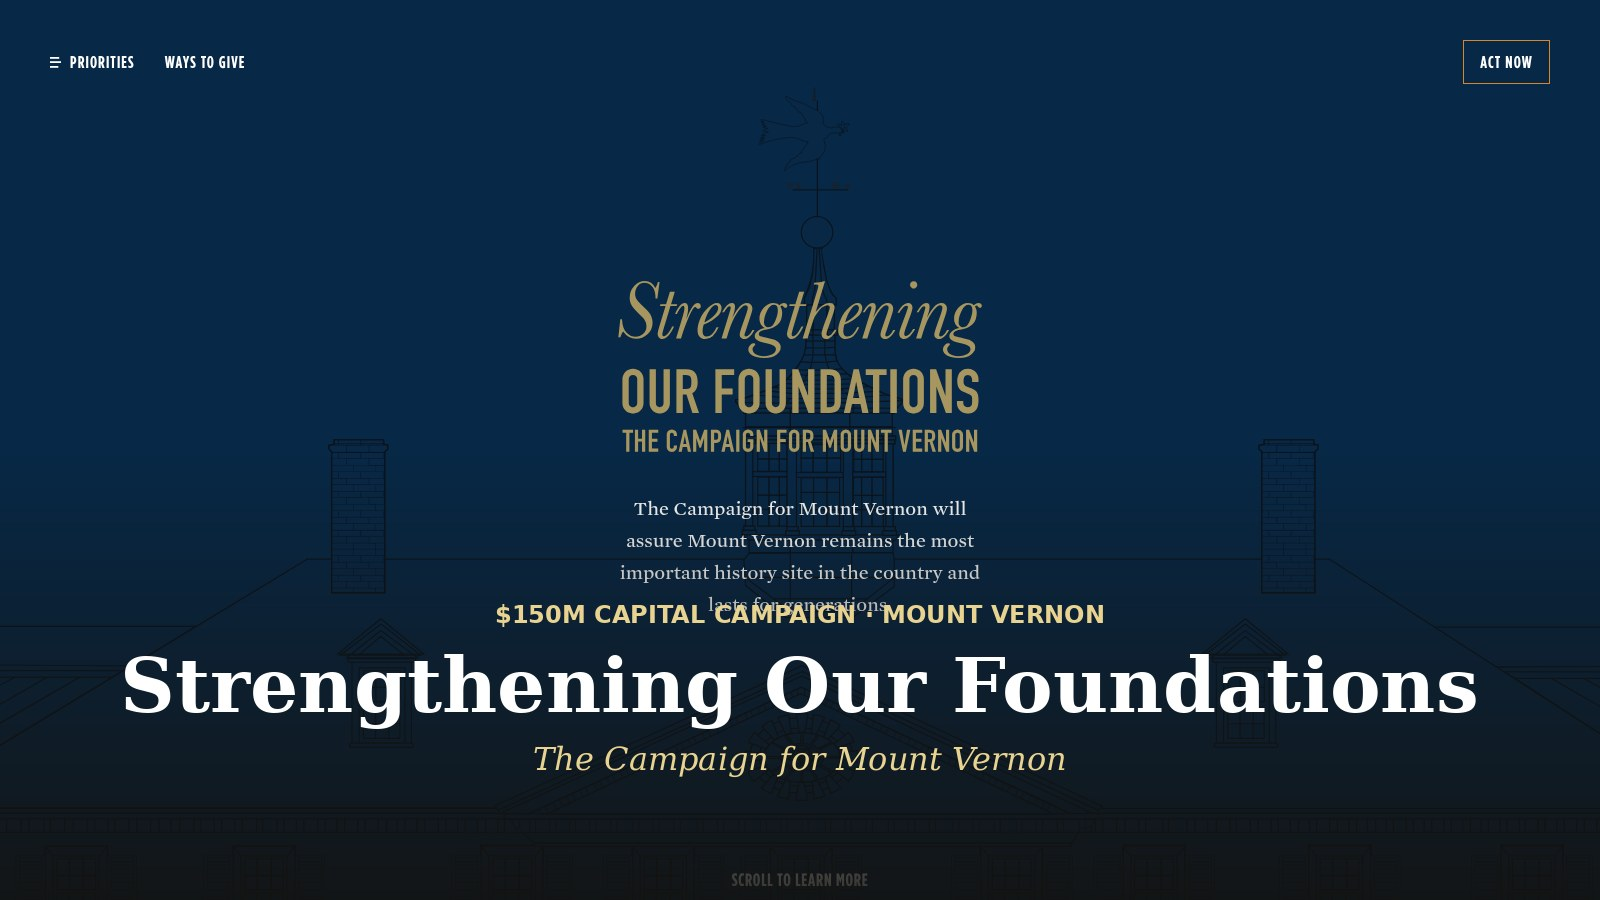
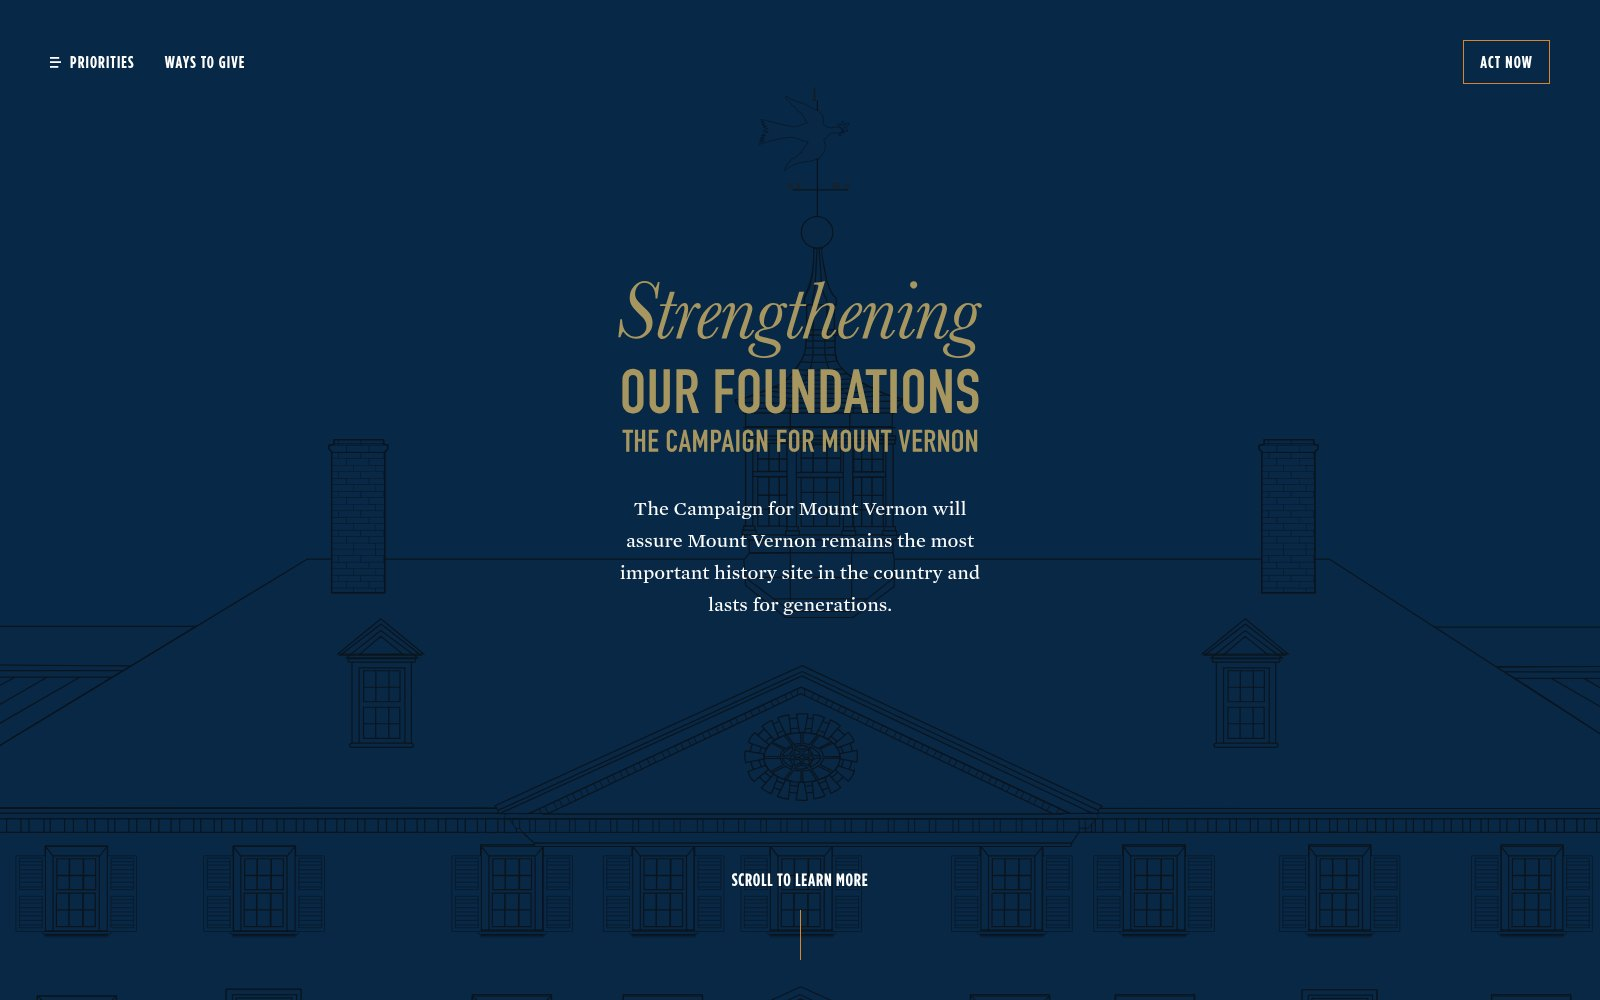
Campaign for Mount Vernon: use clean website screenshot as hero
Drop the composited hero (which duplicated headline text already
present on the campaign site itself) in favor of the raw
campaignformountvernon.org screenshot. Cleaner, no redundant text.

- hero.{jpg,webp} now contains the website screenshot (1600x1000)
- Removed the now-duplicate website-screenshot figure from the
  'The campaign website' section since the hero already shows it
- Replaced with a clear 'Visit campaignformountvernon.org' button
- site-fullsize.{jpg,webp} deleted (no longer referenced)

Changed region(s): [[0.0, 0.28, 1.0, 1.0], [0.0312, 0.0311, 0.1562, 0.0933], [0.9062, 0.0311, 0.9688, 0.0933]]

diff --git a/projects/campaign-mount-vernon/index.html b/projects/campaign-mount-vernon/index.html
@@ -64,7 +64,7 @@
     <div class="case-hero-image">
       <picture>
         <source type="image/webp" srcset="/img/projects/campaign-mount-vernon/hero.webp">
-        <img src="/img/projects/campaign-mount-vernon/hero.jpg" alt="Strengthening Our Foundations — The Campaign for Mount Vernon, a $150M capital campaign for America's 250th anniversary" width="1600" height="900">
+        <img src="/img/projects/campaign-mount-vernon/hero.jpg" alt="campaignformountvernon.org — Strengthening Our Foundations: The Campaign for Mount Vernon" width="1600" height="1000">
       </picture>
     </div>
   </div>
@@ -157,14 +157,11 @@
   </div>
 
   <h2>The campaign website</h2>
-  <p>We built and operate <a href="https://www.campaignformountvernon.org/" target="_blank" rel="noopener">campaignformountvernon.org</a> as the public destination tied to every campaign touch &mdash; mailer, email, event, press placement. The site keeps the architecture simple on purpose: the three priorities, the films, ways to give, and a clear &ldquo;Act Now&rdquo; call to action. It&rsquo;s the URL that every other piece of the campaign points to.</p>
+  <p>We built and operate <a href="https://www.campaignformountvernon.org/" target="_blank" rel="noopener">campaignformountvernon.org</a> as the public destination tied to every campaign touch &mdash; mailer, email, event, press placement. The site keeps the architecture simple on purpose: the three priorities, the films, ways to give, and a clear &ldquo;Act Now&rdquo; call to action. It&rsquo;s the URL that every other piece of the campaign points to &mdash; the same site shown at the top of this page.</p>
 
-  <div class="gallery cols-1">
-    <figure>
-      <picture><source type="image/webp" srcset="/img/projects/campaign-mount-vernon/site-fullsize.webp"><img src="/img/projects/campaign-mount-vernon/site-fullsize.jpg" alt="campaignformountvernon.org homepage — Strengthening Our Foundations, with the campaign film, the three priority pillars, and ways to give"></picture>
-      <figcaption class="gallery-caption">campaignformountvernon.org. Three priorities, four films, one call to action. <a href="https://www.campaignformountvernon.org/" target="_blank" rel="noopener">Live site &rarr;</a></figcaption>
-    </figure>
-  </div>
+  <p style="margin-top:1rem">
+    <a class="btn btn-primary" href="https://www.campaignformountvernon.org/" target="_blank" rel="noopener">Visit campaignformountvernon.org &rarr;</a>
+  </p>
 
   <h2>What we did</h2>
 

diff --git a/tools/pages/proj_campaign_mount_vernon.py b/tools/pages/proj_campaign_mount_vernon.py
@@ -18,7 +18,7 @@ BODY = '''
     <div class="case-hero-image">
       <picture>
         <source type="image/webp" srcset="/img/projects/campaign-mount-vernon/hero.webp">
-        <img src="/img/projects/campaign-mount-vernon/hero.jpg" alt="Strengthening Our Foundations — The Campaign for Mount Vernon, a $150M capital campaign for America's 250th anniversary" width="1600" height="900">
+        <img src="/img/projects/campaign-mount-vernon/hero.jpg" alt="campaignformountvernon.org — Strengthening Our Foundations: The Campaign for Mount Vernon" width="1600" height="1000">
       </picture>
     </div>
   </div>
@@ -111,14 +111,11 @@ BODY = '''
   </div>
 
   <h2>The campaign website</h2>
-  <p>We built and operate <a href="https://www.campaignformountvernon.org/" target="_blank" rel="noopener">campaignformountvernon.org</a> as the public destination tied to every campaign touch &mdash; mailer, email, event, press placement. The site keeps the architecture simple on purpose: the three priorities, the films, ways to give, and a clear &ldquo;Act Now&rdquo; call to action. It&rsquo;s the URL that every other piece of the campaign points to.</p>
+  <p>We built and operate <a href="https://www.campaignformountvernon.org/" target="_blank" rel="noopener">campaignformountvernon.org</a> as the public destination tied to every campaign touch &mdash; mailer, email, event, press placement. The site keeps the architecture simple on purpose: the three priorities, the films, ways to give, and a clear &ldquo;Act Now&rdquo; call to action. It&rsquo;s the URL that every other piece of the campaign points to &mdash; the same site shown at the top of this page.</p>
 
-  <div class="gallery cols-1">
-    <figure>
-      <picture><source type="image/webp" srcset="/img/projects/campaign-mount-vernon/site-fullsize.webp"><img src="/img/projects/campaign-mount-vernon/site-fullsize.jpg" alt="campaignformountvernon.org homepage — Strengthening Our Foundations, with the campaign film, the three priority pillars, and ways to give"></picture>
-      <figcaption class="gallery-caption">campaignformountvernon.org. Three priorities, four films, one call to action. <a href="https://www.campaignformountvernon.org/" target="_blank" rel="noopener">Live site &rarr;</a></figcaption>
-    </figure>
-  </div>
+  <p style="margin-top:1rem">
+    <a class="btn btn-primary" href="https://www.campaignformountvernon.org/" target="_blank" rel="noopener">Visit campaignformountvernon.org &rarr;</a>
+  </p>
 
   <h2>What we did</h2>
 
